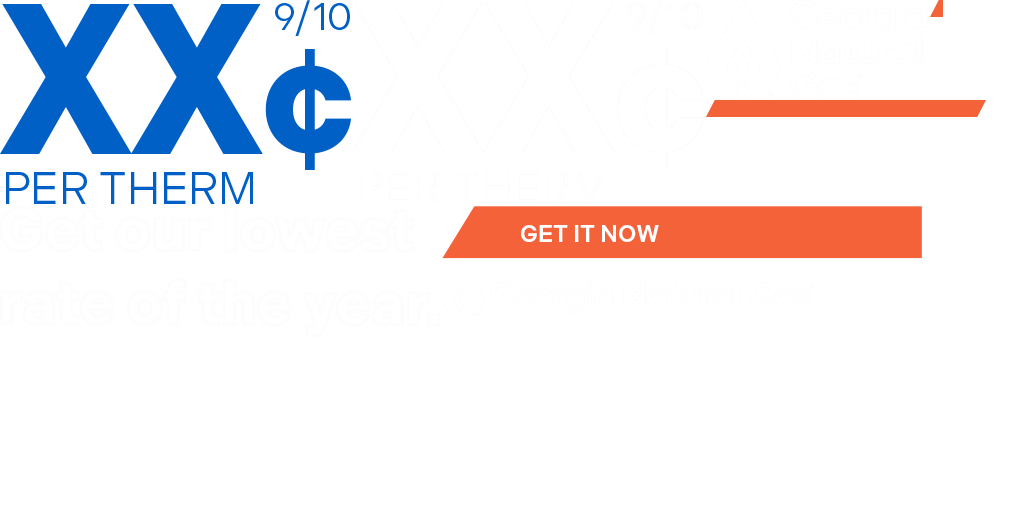
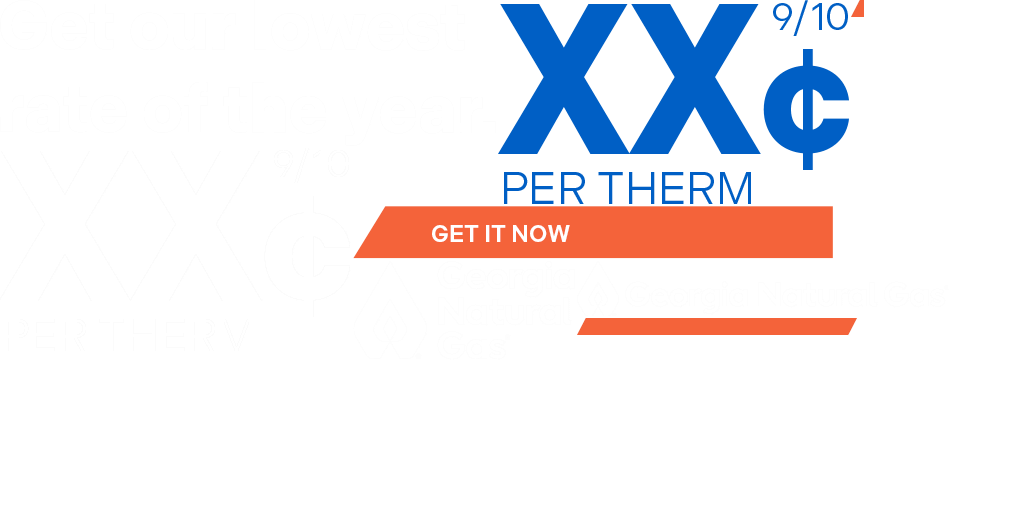
Add files via upload

diff --git a/uaps/300x250/300x250.js b/uaps/300x250/300x250.js
@@ -3,7 +3,7 @@
 var p; // shortcut to reference prototypes
 var lib={};var ss={};var img={};
 lib.ssMetadata = [
-		{name:"300x250_atlas_1", frames: [[0,0,351,204],[0,206,440,131],[706,0,222,98],[442,261,371,55],[442,206,480,53],[706,100,280,17],[930,0,16,17],[353,0,351,204]]}
+		{name:"300x250_atlas_1", frames: [[498,0,351,204],[353,261,222,98],[0,0,496,146],[577,261,371,55],[353,206,480,53],[577,318,280,17],[851,0,16,17],[0,148,351,204]]}
 ];
 
 
@@ -40,14 +40,14 @@ p.nominalBounds = new cjs.Rectangle(0,0,2632,418);
 
 
 
-(lib.Bitmap11 = function() {
+(lib.Bitmap12 = function() {
 	this.initialize(ss["300x250_atlas_1"]);
 	this.gotoAndStop(1);
 }).prototype = p = new cjs.Sprite();
 
 
 
-(lib.Bitmap12 = function() {
+(lib.Bitmap14 = function() {
 	this.initialize(ss["300x250_atlas_1"]);
 	this.gotoAndStop(2);
 }).prototype = p = new cjs.Sprite();
@@ -281,15 +281,15 @@ if (reversed == null) { reversed = false; }
 	cjs.MovieClip.apply(this,[props]);
 
 	// Layer_1
-	this.instance = new lib.Bitmap11();
-	this.instance.setTransform(-27,27,0.5682,0.5684);
+	this.instance = new lib.Bitmap14();
+	this.instance.setTransform(-26.2,27.75,0.502,0.5019);
 
 	this.timeline.addTween(cjs.Tween.get(this.instance).wait(1));
 
 	this._renderFirstFrame();
 
 }).prototype = p = new cjs.MovieClip();
-p.nominalBounds = new cjs.Rectangle(-27,27,250,74.5);
+p.nominalBounds = new cjs.Rectangle(-26.2,27.8,249,73.2);
 
 
 (lib.Symbol1 = function(mode,startPosition,loop,reversed) {
@@ -464,7 +464,7 @@ if (reversed == null) { reversed = false; }
 	this.instance.alpha = 0;
 	this.instance._off = true;
 
-	this.timeline.addTween(cjs.Tween.get(this.instance).wait(221).to({_off:false},0).to({alpha:1},34).wait(225));
+	this.timeline.addTween(cjs.Tween.get(this.instance).wait(161).to({_off:false},0).to({alpha:1},34).wait(285));
 
 	// Layer_11
 	this.instance_1 = new lib.Symbol11("synched",0);
@@ -473,7 +473,7 @@ if (reversed == null) { reversed = false; }
 	this.instance_2 = new lib.white();
 	this.instance_2.setTransform(175.4,147.95,0.3162,0.3162);
 
-	this.timeline.addTween(cjs.Tween.get({}).to({state:[]}).to({state:[{t:this.instance_1}]},165).to({state:[{t:this.instance_2}]},139).wait(176));
+	this.timeline.addTween(cjs.Tween.get({}).to({state:[]}).to({state:[{t:this.instance_1}]},105).to({state:[{t:this.instance_2}]},139).wait(236));
 
 	// Layer_4
 	this.instance_3 = new lib.Symbol9("synched",0);
@@ -481,21 +481,21 @@ if (reversed == null) { reversed = false; }
 	this.instance_3.alpha = 0;
 	this.instance_3._off = true;
 
-	this.timeline.addTween(cjs.Tween.get(this.instance_3).wait(221).to({_off:false},0).to({alpha:1},34).wait(225));
+	this.timeline.addTween(cjs.Tween.get(this.instance_3).wait(161).to({_off:false},0).to({alpha:1},34).wait(285));
 
 	// Layer_7
 	this.instance_4 = new lib.Symbol6("synched",0);
 	this.instance_4.setTransform(1058,160,1,1,0,0,0,175.5,102);
 	this.instance_4._off = true;
 
-	this.timeline.addTween(cjs.Tween.get(this.instance_4).wait(307).to({_off:false},0).to({_off:true},32).wait(141));
+	this.timeline.addTween(cjs.Tween.get(this.instance_4).wait(247).to({_off:false},0).to({_off:true},32).wait(201));
 
 	// Layer_3
 	this.instance_5 = new lib.Symbol2("synched",0);
 	this.instance_5.setTransform(-371,150.5,1,1,0,0,0,368,92.5);
 	this.instance_5._off = true;
 
-	this.timeline.addTween(cjs.Tween.get(this.instance_5).wait(10).to({_off:false},0).to({x:414.55},28,cjs.Ease.get(1)).wait(118).to({startPosition:0},0).to({y:105.5},34,cjs.Ease.get(1)).wait(290));
+	this.timeline.addTween(cjs.Tween.get(this.instance_5).wait(10).to({_off:false},0).to({x:414.55},21,cjs.Ease.get(1)).wait(65).to({startPosition:0},0).to({y:105.5},34,cjs.Ease.get(1)).wait(350));
 
 	// underline
 	this.instance_6 = new lib.Symbol10("synched",0);
@@ -505,26 +505,26 @@ if (reversed == null) { reversed = false; }
 	this.instance_7.setTransform(201.2,111.15,1,1,0,0,0,58,3.5);
 	this.instance_7._off = true;
 
-	this.timeline.addTween(cjs.Tween.get({}).to({state:[]}).to({state:[{t:this.instance_6}]},90).to({state:[{t:this.instance_7}]},23).to({state:[{t:this.instance_7}]},43).to({state:[{t:this.instance_7}]},34).wait(290));
-	this.timeline.addTween(cjs.Tween.get(this.instance_7).wait(113).to({_off:false},0).wait(43).to({startPosition:0},0).to({y:66.15},34,cjs.Ease.get(1)).wait(290));
+	this.timeline.addTween(cjs.Tween.get({}).to({state:[]}).to({state:[{t:this.instance_6}]},39).to({state:[{t:this.instance_7}]},23).to({state:[{t:this.instance_7}]},34).to({state:[{t:this.instance_7}]},34).wait(350));
+	this.timeline.addTween(cjs.Tween.get(this.instance_7).wait(62).to({_off:false},0).wait(34).to({startPosition:0},0).to({y:66.15},34,cjs.Ease.get(1)).wait(350));
 
 	// Layer_2
 	this.instance_8 = new lib.Symbol3("synched",0);
 	this.instance_8.setTransform(402.4,229.35,0.4216,0.4216,0,0,0,240.2,26.6);
 	this.instance_8._off = true;
 
-	this.timeline.addTween(cjs.Tween.get(this.instance_8).wait(165).to({_off:false},0).to({x:282.4},25,cjs.Ease.get(1)).wait(290));
+	this.timeline.addTween(cjs.Tween.get(this.instance_8).wait(105).to({_off:false},0).to({x:282.4},22,cjs.Ease.get(1)).wait(353));
 
 	// Layer_1
 	this.instance_9 = new lib.Symbol1("synched",0);
 	this.instance_9.setTransform(1085,209,1,1,0,0,0,1316,209);
 
-	this.timeline.addTween(cjs.Tween.get(this.instance_9).to({x:596.5},479).wait(1));
+	this.timeline.addTween(cjs.Tween.get(this.instance_9).to({x:596.5},419).wait(61));
 
 	this._renderFirstFrame();
 
 }).prototype = p = new lib.AnMovieClip();
-p.nominalBounds = new cjs.Rectangle(-616,120,2219.4,264.9);
+p.nominalBounds = new cjs.Rectangle(-615.2,120,2218.6000000000004,264.9);
 // library properties:
 lib.properties = {
 	id: 'D4BD6972B2FE4792A39E8201EC36F14C',

diff --git a/uaps/1280x418/1280x418.js b/uaps/1280x418/1280x418.js
@@ -347,21 +347,21 @@ if (reversed == null) { reversed = false; }
 	this.instance.alpha = 0;
 	this.instance._off = true;
 
-	this.timeline.addTween(cjs.Tween.get(this.instance).wait(159).to({_off:false},0).to({alpha:1},34).wait(287));
+	this.timeline.addTween(cjs.Tween.get(this.instance).wait(125).to({_off:false},0).to({alpha:1},34).wait(321));
 
 	// Layer_7
 	this.instance_1 = new lib.Symbol6("synched",0);
 	this.instance_1.setTransform(1057.2,160,1,1,0,0,0,175.5,102);
 	this.instance_1._off = true;
 
-	this.timeline.addTween(cjs.Tween.get(this.instance_1).wait(227).to({_off:false},0).to({_off:true},32).wait(221));
+	this.timeline.addTween(cjs.Tween.get(this.instance_1).wait(193).to({_off:false},0).to({_off:true},32).wait(255));
 
 	// Layer_8
 	this.instance_2 = new lib.Symbol8("synched",0);
 	this.instance_2.setTransform(1458.55,160.5,1,1,0,0,0,175.5,102.5);
 	this.instance_2._off = true;
 
-	this.timeline.addTween(cjs.Tween.get(this.instance_2).wait(120).to({_off:false},0).to({x:1058.5},31,cjs.Ease.get(1)).wait(329));
+	this.timeline.addTween(cjs.Tween.get(this.instance_2).wait(86).to({_off:false},0).to({x:1058.5},31,cjs.Ease.get(1)).wait(363));
 
 	// Layer_3
 	this.instance_3 = new lib.Symbol2("synched",0);
@@ -375,21 +375,21 @@ if (reversed == null) { reversed = false; }
 	this.instance_4.setTransform(348,111);
 	this.instance_4._off = true;
 
-	this.timeline.addTween(cjs.Tween.get(this.instance_4).wait(60).to({_off:false},0).wait(420));
+	this.timeline.addTween(cjs.Tween.get(this.instance_4).wait(37).to({_off:false},0).wait(443));
 
 	// Layer_5
 	this.instance_5 = new lib.Symbol5("synched",0);
 	this.instance_5.setTransform(357.3,119.7,0.0078,1,0,0,0,6.4,8.7);
 	this.instance_5._off = true;
 
-	this.timeline.addTween(cjs.Tween.get(this.instance_5).wait(60).to({_off:false},0).to({regX:5.2,scaleX:1,x:357.2},23).wait(397));
+	this.timeline.addTween(cjs.Tween.get(this.instance_5).wait(37).to({_off:false},0).to({regX:5.2,scaleX:1,x:357.2},23).wait(420));
 
 	// Layer_2
 	this.instance_6 = new lib.Symbol3("synched",0);
 	this.instance_6.setTransform(1522.95,356.5,1,1,0,0,0,240,26.5);
 	this.instance_6._off = true;
 
-	this.timeline.addTween(cjs.Tween.get(this.instance_6).wait(120).to({_off:false},0).to({x:1243.95},31,cjs.Ease.get(1)).wait(329));
+	this.timeline.addTween(cjs.Tween.get(this.instance_6).wait(86).to({_off:false},0).to({x:1243.95},31,cjs.Ease.get(1)).wait(363));
 
 	// Layer_1
 	this.instance_7 = new lib.Symbol1("synched",0);
